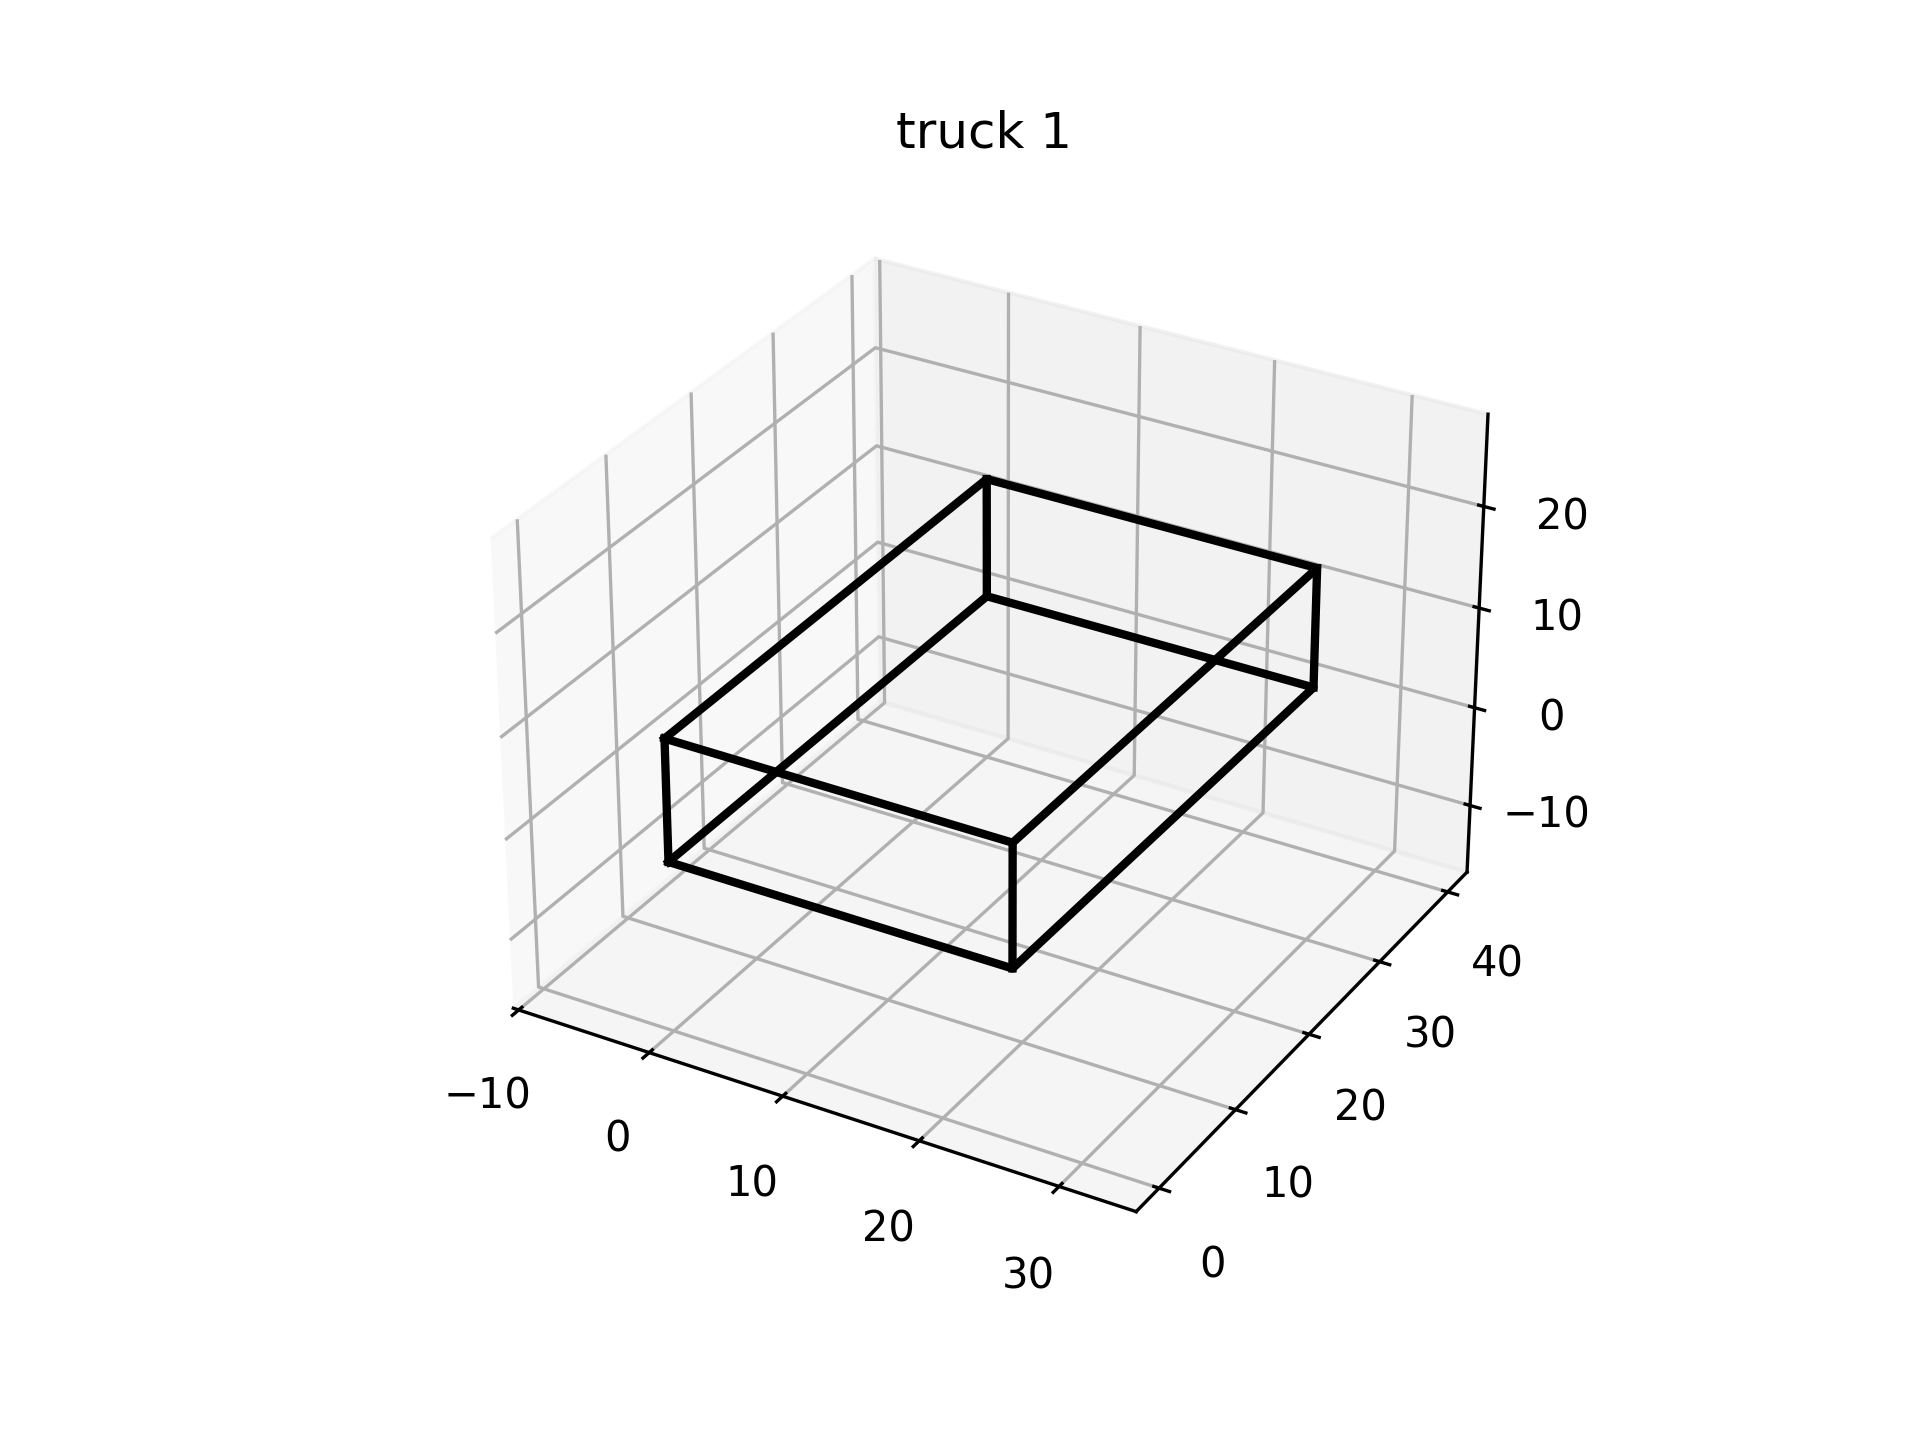
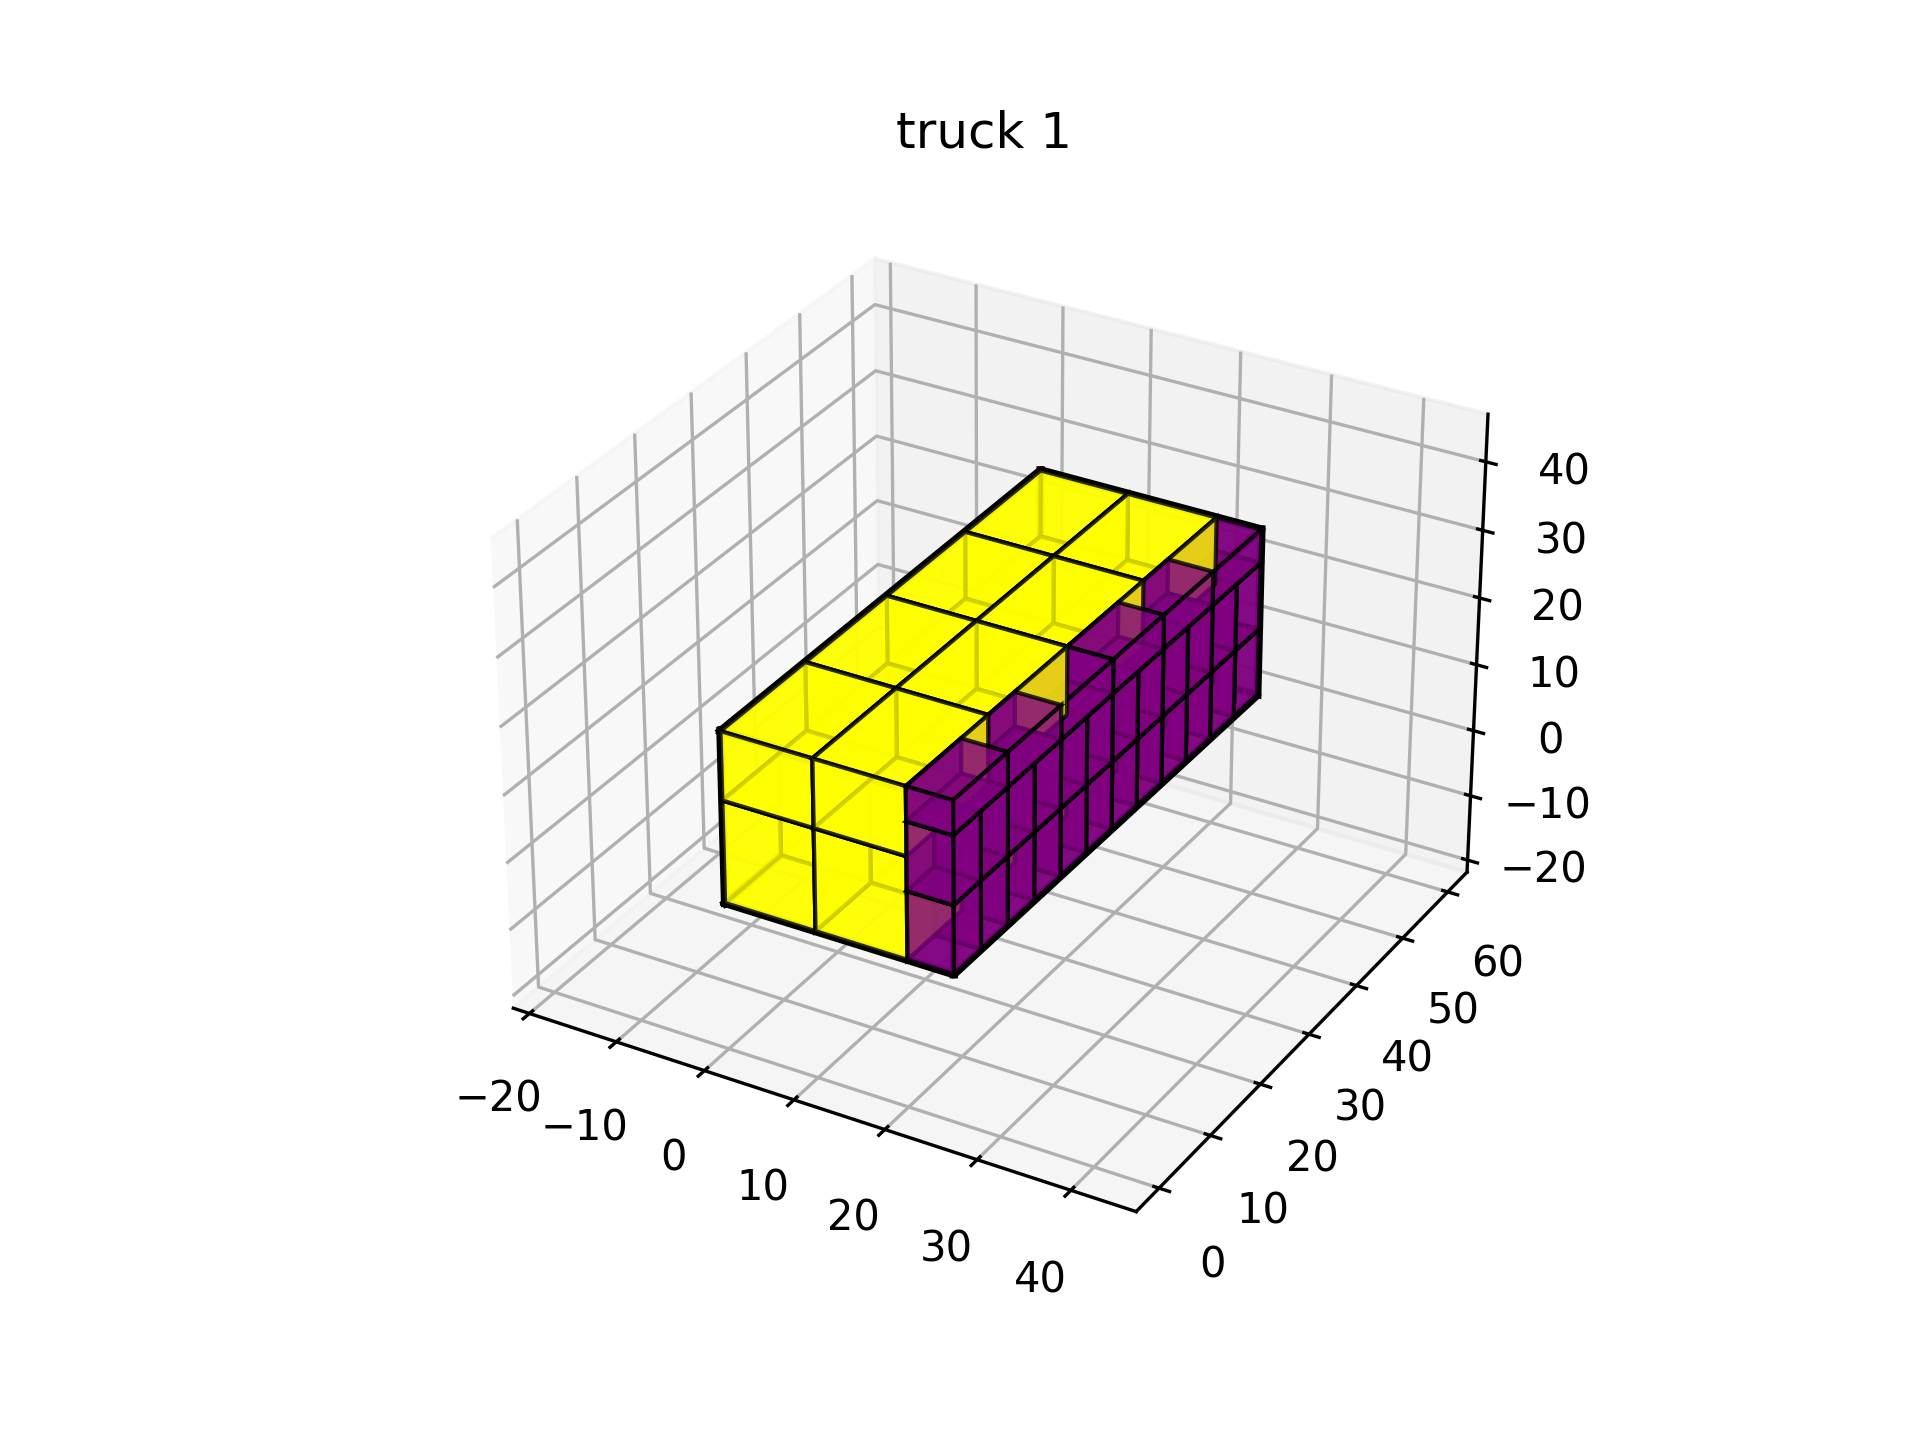
final commit 1.1

diff --git a/server/src/repositories/request.repository.ts b/server/src/repositories/request.repository.ts
@@ -4,6 +4,13 @@ import { ExtendedError } from "../types/errors";
 import {optimizeTransport} from "../lib/planning"
 import axios from "axios";
 
+
+
+const colors = ["red", "green", "blue", "yellow", "purple", "orange", "pink", "brown", "black", "white",
+    "gray", "cyan", "magenta", "lime", "olive", "maroon", "navy", "teal", "silver", "gold", "indigo", "violet",
+    "fuchsia", "khaki", "azure", "beige", "coral", "crimson", "cyan", "darkblue", "darkcyan", "darkgray", "darkgreen",
+    "darkkhaki", "darkmagenta", "darkolivegreen", "darkorange", "darkorchid", "darkred", "darksalmon", "darkviolet",]
+
 export default class RequestRepository {
     static async listRequests(shipper_id:number): Promise<RepositoryResponse> {
         const requests = await prisma.request.findMany({
@@ -275,19 +282,19 @@ export default class RequestRepository {
             Array.from({ length: rp.quantity }, (_, i) => ({
                 partno: `box ${i}${rp.product.product_id}`,
                 name: `${rp.product.name} ${i}`,
-                typeof: "box",
+                typeof: "cube",
                 weight: rp.product.weight,
                 level: 1,
                 loadbear: 100,
                 updown: true,
-                color: "red",
-                WHD: [rp.product.width, rp.product.height, rp.product.length]
+                color: colors[rp.product.product_id % colors.length],
+                WHD: [rp.product.width, rp.product.length, rp.product.height]
             }))
         );
     
         const bins = contract.transporter.trucks.map(truck => ({
             partno: `truck ${truck.truck_id}`,
-            WHD: [truck.width, truck.height, truck.length],
+            WHD: [truck.width,truck.length, truck.height],
             max_weight: truck.max_weight
         }));
     
@@ -303,9 +310,18 @@ export default class RequestRepository {
             console.error("Error sending request:", error?.response?.data || error);
             throw new ExtendedError(500, "Error loading request");
         }
-    
+        
         return {
-            data: response.data,
+            data: {
+                result: response.data.fitted_result.map((fit: any) => ({
+                    bin_name: fit.bin_name,
+                    pack_count: fit.items.length,
+                    space_usage: fit.space_usage,
+                    residual_volumn: fit.residual_volumn,
+                    gravity_distribution: fit.gravity_distribution,
+                })
+                ),
+            },
             status: 200,
             success: true
         };

diff --git a/server/src/seed.ts b/server/src/seed.ts
@@ -59,10 +59,10 @@ async function main() {
       data: {
           model: "Volvo FH16",
           plate: "ABC-1234",
-          height: 40,
+          height: 25,
           width: 25,
-          length: 12,
-          max_weight: 40000,
+          length: 60,
+          max_weight: 850,
           transporter_id: transporter.transporter_id,
         },
     });
@@ -71,11 +71,11 @@ async function main() {
       data: {
           model: "HMC 6x4",
           plate: "DEF-5678",
-          height: 40,
-          width: 25,
-          length: 12,
-          max_weight: 40000,
-          transporter_id: transporter2.transporter_id,
+          height: 25,
+          width: 35,
+          length: 55,
+          max_weight: 400,
+          transporter_id: transporter.transporter_id,
         },
     });
 
@@ -83,10 +83,10 @@ async function main() {
       data: {
           model: "HMC 6x4",
           plate: "DEF-5678",
-          height: 40,
+          height: 25,
           width: 25,
-          length: 12,
-          max_weight: 40000,
+          length: 60,
+          max_weight: 450,
           transporter_id: transporter2.transporter_id,
         },
     });
@@ -104,7 +104,7 @@ async function main() {
       data: {
         full_name: "John Doe",
         phone: "5551234567",
-        transporter_id: transporter2.transporter_id,
+        transporter_id: transporter.transporter_id,
         truck_id:truck2.truck_id
       },
     });
@@ -249,7 +249,7 @@ async function main() {
     data: {
       request_id: request.request_id,
       product_id: productList[1].product_id,
-      quantity: 12,
+      quantity: 17,
       location_id: locationList[3].location_id,
     },
   })
@@ -258,7 +258,7 @@ async function main() {
     data: {
       request_id: request.request_id,
       product_id: productList[2].product_id,
-      quantity: 14,
+      quantity: 20,
       location_id: locationList[4].location_id,
     },
   })
@@ -267,7 +267,7 @@ async function main() {
     data: {
       request_id: request.request_id,
       product_id: productList[3].product_id,
-      quantity: 20,
+      quantity: 30,
       location_id: locationList[1].location_id,
     },
   })

diff --git a/load_model/server.py b/load_model/server.py
@@ -34,19 +34,12 @@ def pack_boxes(bins: list[BinInput], boxes: list[BoxInput]):
         len(list_bins), list_bins, len(list_boxes), list_boxes, draw_result=True, print_result=False
     )
 
-    if fitted_result:
-        bin_to_visualize = list_bins[0]  # Pick the first bin for visualization
-        painter = Painter(bin_to_visualize)
-        fig = painter.plotBoxAndItems(title="Packing Result", alpha=0.8)
+    
          # Ensure the output directory exists
-        output_dir = "outputs"
-        os.makedirs(output_dir, exist_ok=True)
         
         # Define output path
-        output_path = os.path.join(output_dir, "img.png")
 
         # Save the figure
-        fig.savefig(output_path, format="png")
 
 
     return {
